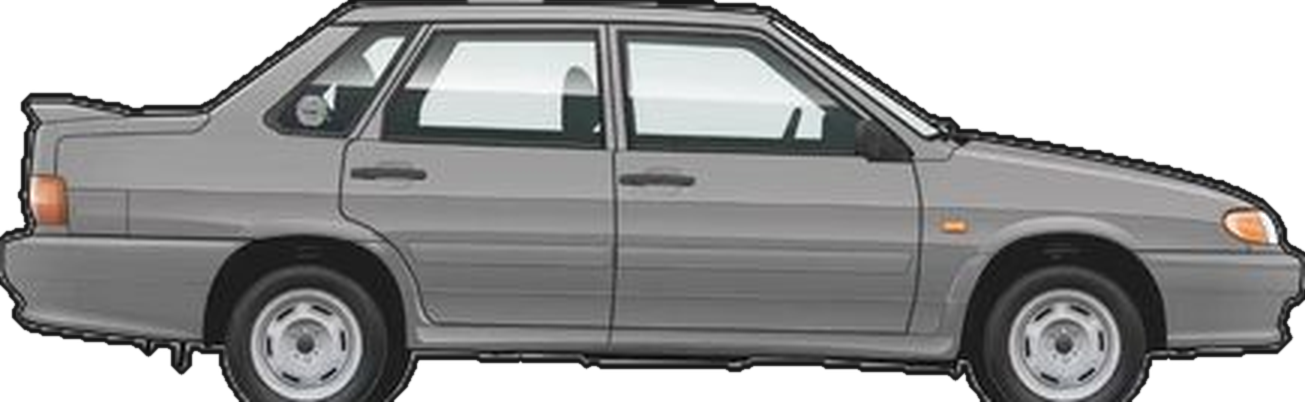
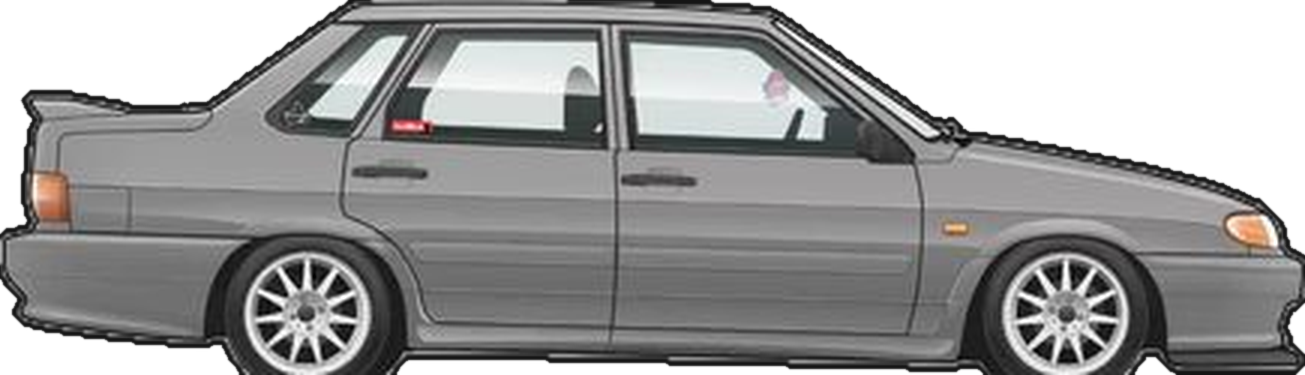
Перекупы ep17: пятнашка — нижняя (литьё), колёса целиком
Claude-Session: https://claude.ai/code/session_011h7oDPmmegoivb4yRZ71Zj

diff --git a/reels/perekupy/kit/img/vaz2115/cut.py b/reels/perekupy/kit/img/vaz2115/cut.py
@@ -1,14 +1,17 @@
-# python cut.py → vaz2115.png: серая пятнашка (верхняя, стоковая) без белого фона, отражения и значка автора; x3, контур
+# python cut.py → vaz2115.png: серая пятнашка (нижняя — на литье, как выбрал владелец) без белого фона, отражения и значка автора; x3, контур
 import numpy as np
 from PIL import Image, ImageFilter
 from scipy import ndimage
 im = Image.open("source.jpg").convert("RGB")
-a = np.asarray(im).astype(int)[0:185]                       # верхняя машина, до низа колёс (ниже — тень и отражение)
+a = np.asarray(im).astype(int)[225:357]                     # нижняя машина (литьё, занижение), до низа колёс — ниже тень и отражение
 light = (a.min(2) > 190)                                      # белый фон и светлое отражение
 lab, _ = ndimage.label(light)
 edge = set(lab[0]) | set(lab[-1]) | set(lab[:, 0]) | set(lab[:, -1]); edge.discard(0)
 fg = ndimage.binary_fill_holes(~np.isin(lab, list(edge)))
 fg = ndimage.binary_opening(fg, iterations=1)
+yy, xx = np.mgrid[:fg.shape[0], :fg.shape[1]]
+for cx, cy in ((121, 110), (374, 110)):                       # светлые спицы литья у низа колеса сливаются с фоном — колёса целиком
+    fg |= (xx - cx) ** 2 + (yy - cy) ** 2 <= 29 ** 2
 lab2, n = ndimage.label(fg); sizes = ndimage.sum(fg, lab2, range(1, n + 1)); fg = lab2 == (1 + int(np.argmax(sizes)))   # только машина
 ys, xs = np.nonzero(fg); y0, y1, x0, x1 = ys.min(), ys.max() + 1, xs.min(), xs.max() + 1
 alpha = (ndimage.gaussian_filter(fg.astype(float), .6) * 255).clip(0, 255)
